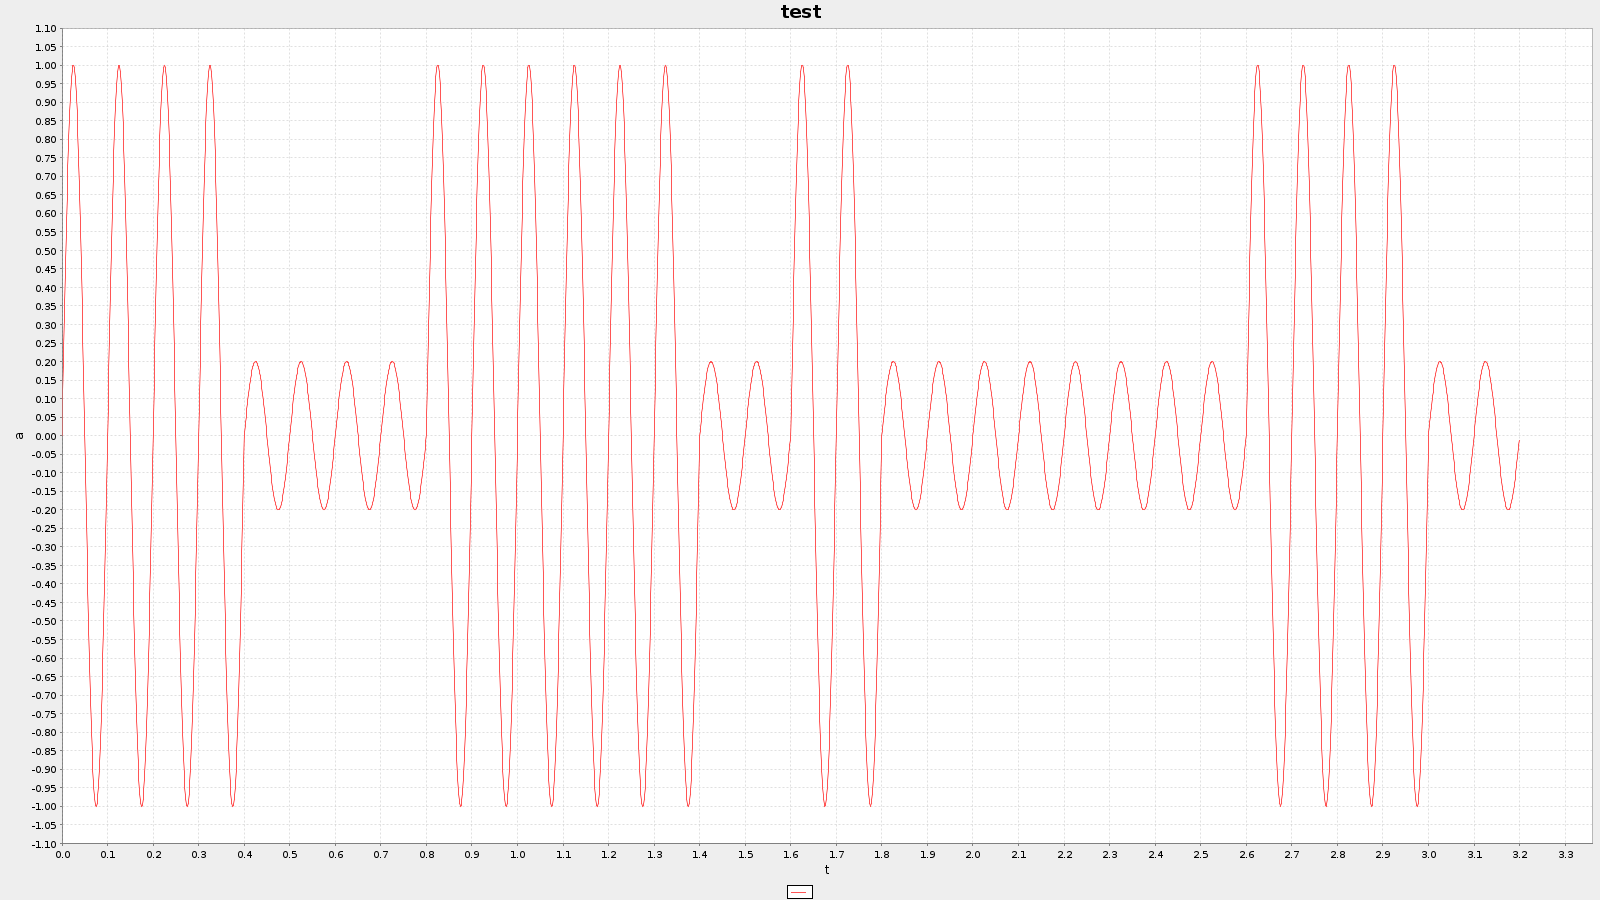
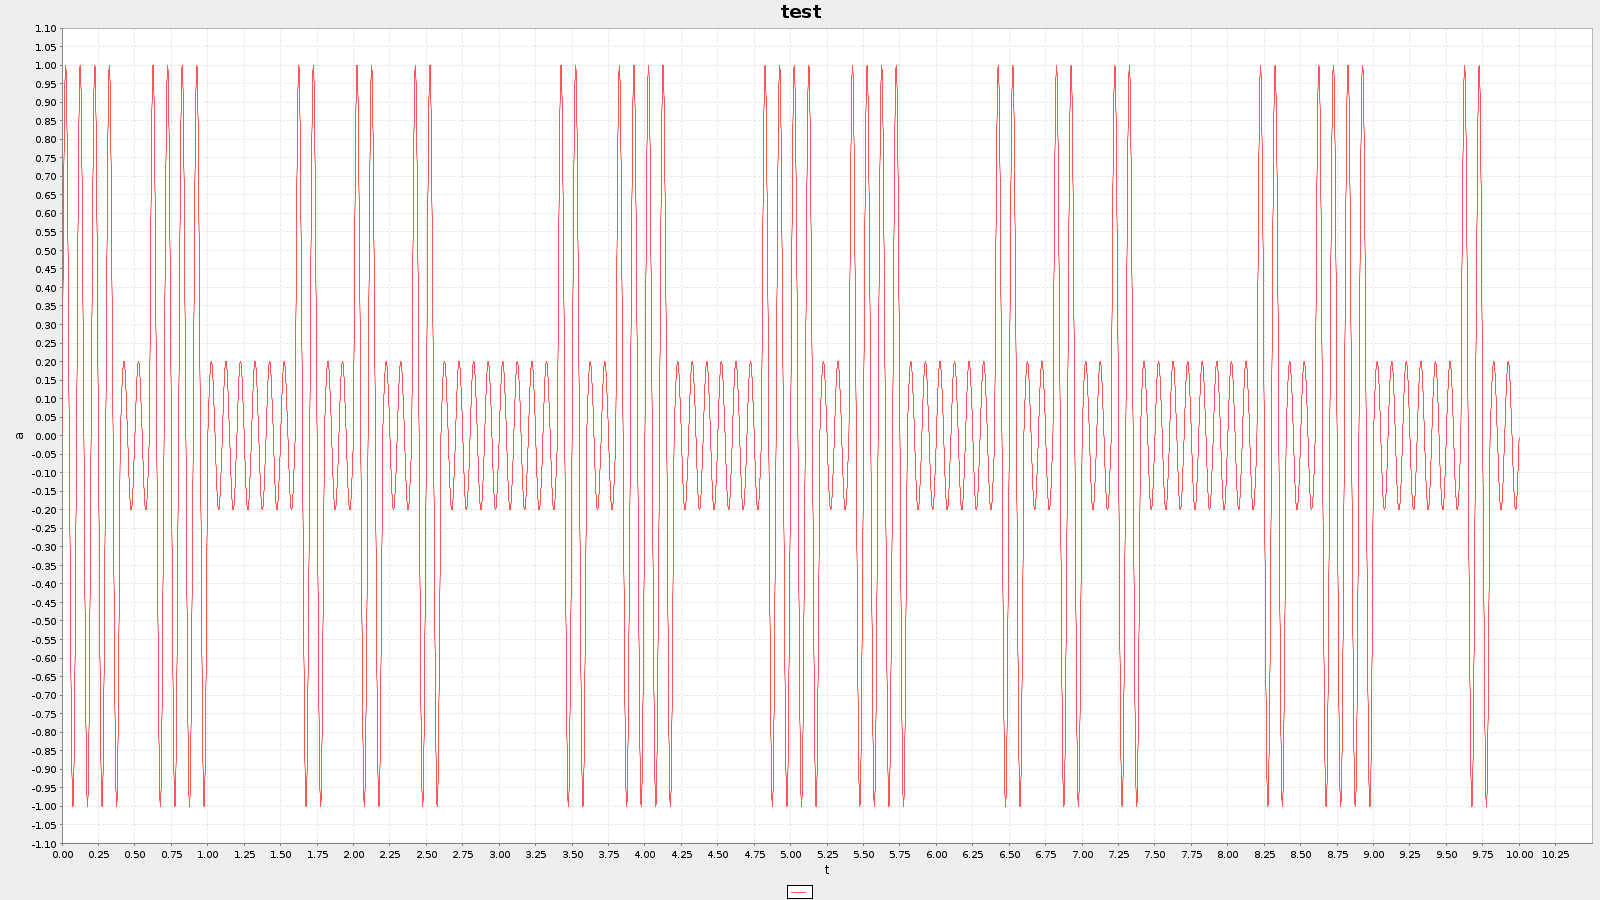
demodulator working

diff --git a/channel-simulation/java-channel-simulation/src/main/java/main/Simulator.java b/channel-simulation/java-channel-simulation/src/main/java/main/Simulator.java
@@ -1,8 +1,12 @@
 package main;
 
+import demodulator.Demodulator;
 import display.SimulatorSettings;
 import display.SimulatorView;
 import modulator.Modulator;
+import modulator.ModulatorFactory;
+import org.jfree.data.xy.XYDataItem;
+import util.Plotter;
 
 import javax.imageio.ImageIO;
 import java.awt.*;
@@ -61,13 +65,28 @@ public class Simulator {
         synchronized (simulatorSettings.lock) {
             while (!simulatorSettings.isFinished()) simulatorSettings.lock.wait();
         }
-        simulatorSettings.dispose();
 
         boolean useECC = simulatorSettings.useECC();
+        float snr = simulatorSettings.getSNR();
+        float timeStep = 0.001f;
         Modulator modulator = simulatorSettings.getModulator();
         String path = "../assets/frames";
-        byte[] data = readImages(path, 49);
+        byte[] data = readImages(path, 1);
         Dimension imageSize = readImageSize(path);
-        float[] amp = modulator.calculate(data, 0.001f);
+        Demodulator demodulator = ModulatorFactory.getDemodulator(modulator);
+
+        System.out.println("modulating...");
+        float[] amp = modulator.calculate(data, timeStep);
+        XYDataItem[] dataItems = new XYDataItem[10000];
+        for (float t = 0, i = 0; i < dataItems.length; t += timeStep, i++) dataItems[(int) i] = new XYDataItem(t, amp[(int) i]);
+        Plotter.plot("test", "assets/test.png", "t", "a", new XYDataItem(1600, 900), dataItems);
+        System.out.println("demodulating...");
+        demodulator.calculate(amp, snr, timeStep);
+
+        simulatorSettings.dispose();
+
+        for (int i = 0; i < 20; i++) {
+            System.out.println(modulator.buffer.getByte() + " " + demodulator.buffer.getByte());
+        }
     }
 }

diff --git a/channel-simulation/java-channel-simulation/src/main/java/demodulator/ASKDemodulator.java b/channel-simulation/java-channel-simulation/src/main/java/demodulator/ASKDemodulator.java
@@ -7,7 +7,7 @@ public class ASKDemodulator extends Demodulator {
     private final float depth, amplitude, modulationPeriod;
 
     @Override
-    protected void calculate(float[] amp, float snr, float timeStep) {
+    public void calculate(float[] amp, float snr, float timeStep) {
         float signalRMS = this.amplitude / (float) Math.sqrt(2);
         float noiseRMS = (float) (signalRMS / Math.pow(10, snr/20));
         Random rd = new Random();
@@ -25,10 +25,11 @@ public class ASKDemodulator extends Demodulator {
 
             if (bitFrame != transitions) {
                 boolean bit = maxAmp > this.amplitude * (1 - this.depth / 2);
-                updateByte(currentByte, bitMask, bit);
+                currentByte = updateByte(currentByte, bitMask, bit);
 
                 bitMask <<= 1;
                 transitions++;
+                maxAmp = 0;
                 if (bitMask == 0x00) {
                     bitMask = 0x01;
                     this.buffer.addData(currentByte);
@@ -37,9 +38,9 @@ public class ASKDemodulator extends Demodulator {
         }
     }
 
-    public ASKDemodulator(float depth, float amplitude, float modulationPeriod) {
+    public ASKDemodulator(float depth, float amplitude, float modulationFrequency) {
         this.depth = depth;
         this.amplitude = amplitude;
-        this.modulationPeriod = modulationPeriod;
+        this.modulationPeriod = 1f / modulationFrequency ;
     }
 }

diff --git a/channel-simulation/java-channel-simulation/src/main/java/main/Main.java b/channel-simulation/java-channel-simulation/src/main/java/main/Main.java
@@ -45,8 +45,8 @@ public class Main {
         return new Dimension(width, height);
     }
 
-    public static void main(String[] args) {
-        ASKModulator askModulator = new ASKModulator(10, 5, 1, 0.8f);
+    public static void main(String[] args) throws InterruptedException {
+        /*ASKModulator askModulator = new ASKModulator(10, 5, 1, 0.8f);
         byte[] data = readImages("../assets/frames", 49);
         Dimension imageSize = readImageSize("../assets/frames");
         float[] amp = askModulator.calculate(data, 0.001f);
@@ -80,10 +80,8 @@ public class Main {
             throw new RuntimeException(e);
         }
 
-        simulatorView.dispose();
+        simulatorView.dispose();*/
 
-        /*XYDataItem[] dataItems = new XYDataItem[amp.length];
-        for (float t = 0, i = 0; i < dataItems.length; t += 0.001, i++) dataItems[(int) i] = new XYDataItem(t, amp[(int) i]);
-        Plotter.plot("test", "assets/test.png", "t", "a", new XYDataItem(1600, 900), dataItems);*/
+        Simulator.simulate();
     }
 }

diff --git a/channel-simulation/java-channel-simulation/src/main/java/modulator/ModulatorFactory.java b/channel-simulation/java-channel-simulation/src/main/java/modulator/ModulatorFactory.java
@@ -1,5 +1,8 @@
 package modulator;
 
+import demodulator.ASKDemodulator;
+import demodulator.Demodulator;
+
 import java.util.ArrayList;
 
 public class ModulatorFactory {
@@ -11,5 +14,14 @@ public class ModulatorFactory {
         float depth = Float.parseFloat(parameters.get(3));
 
         return new ASKModulator(carrierFrequency, modulationFrequency, carrierAmplitude, depth);
+    }
+
+    public static Demodulator getDemodulator(Modulator modulator) {
+        if (modulator instanceof ASKModulator) {
+            ASKModulator ask = (ASKModulator) modulator;
+            return new ASKDemodulator(ask.getDepth(), ask.getCarrierAmplitude(), ask.getModulationFrequency());
+        }
+
+        return null;
     }
 }

diff --git a/channel-simulation/java-channel-simulation/src/main/java/modulator/Modulator.java b/channel-simulation/java-channel-simulation/src/main/java/modulator/Modulator.java
@@ -14,4 +14,16 @@ public abstract class Modulator {
         this.modulationFrequency = modulationFrequency;
         this.carrierAmplitude = carrierAmplitude;
     }
+
+    public float getCarrierFrequency() {
+        return this.carrierFrequency;
+    }
+
+    public float getModulationFrequency() {
+        return this.modulationFrequency;
+    }
+
+    public float getCarrierAmplitude() {
+        return this.carrierAmplitude;
+    }
 }

diff --git a/channel-simulation/java-channel-simulation/src/main/java/demodulator/Demodulator.java b/channel-simulation/java-channel-simulation/src/main/java/demodulator/Demodulator.java
@@ -6,7 +6,7 @@ public abstract class Demodulator {
 
     public final Buffer buffer = new Buffer();
 
-    protected abstract void calculate(float[] amp, float snr, float timeStep);
+    public abstract void calculate(float[] amp, float snr, float timeStep);
 
     protected byte updateByte(byte currentByte, byte bitMask, boolean bit) {
         if (bit) currentByte |= bitMask;

diff --git a/channel-simulation/java-channel-simulation/src/main/java/modulator/ASKModulator.java b/channel-simulation/java-channel-simulation/src/main/java/modulator/ASKModulator.java
@@ -32,4 +32,8 @@ public class ASKModulator extends Modulator {
         super(carrierFrequency, modulationFrequency, carrierAmplitude);
         this.depth = depth;
     }
+
+    public float getDepth() {
+        return this.depth;
+    }
 }
